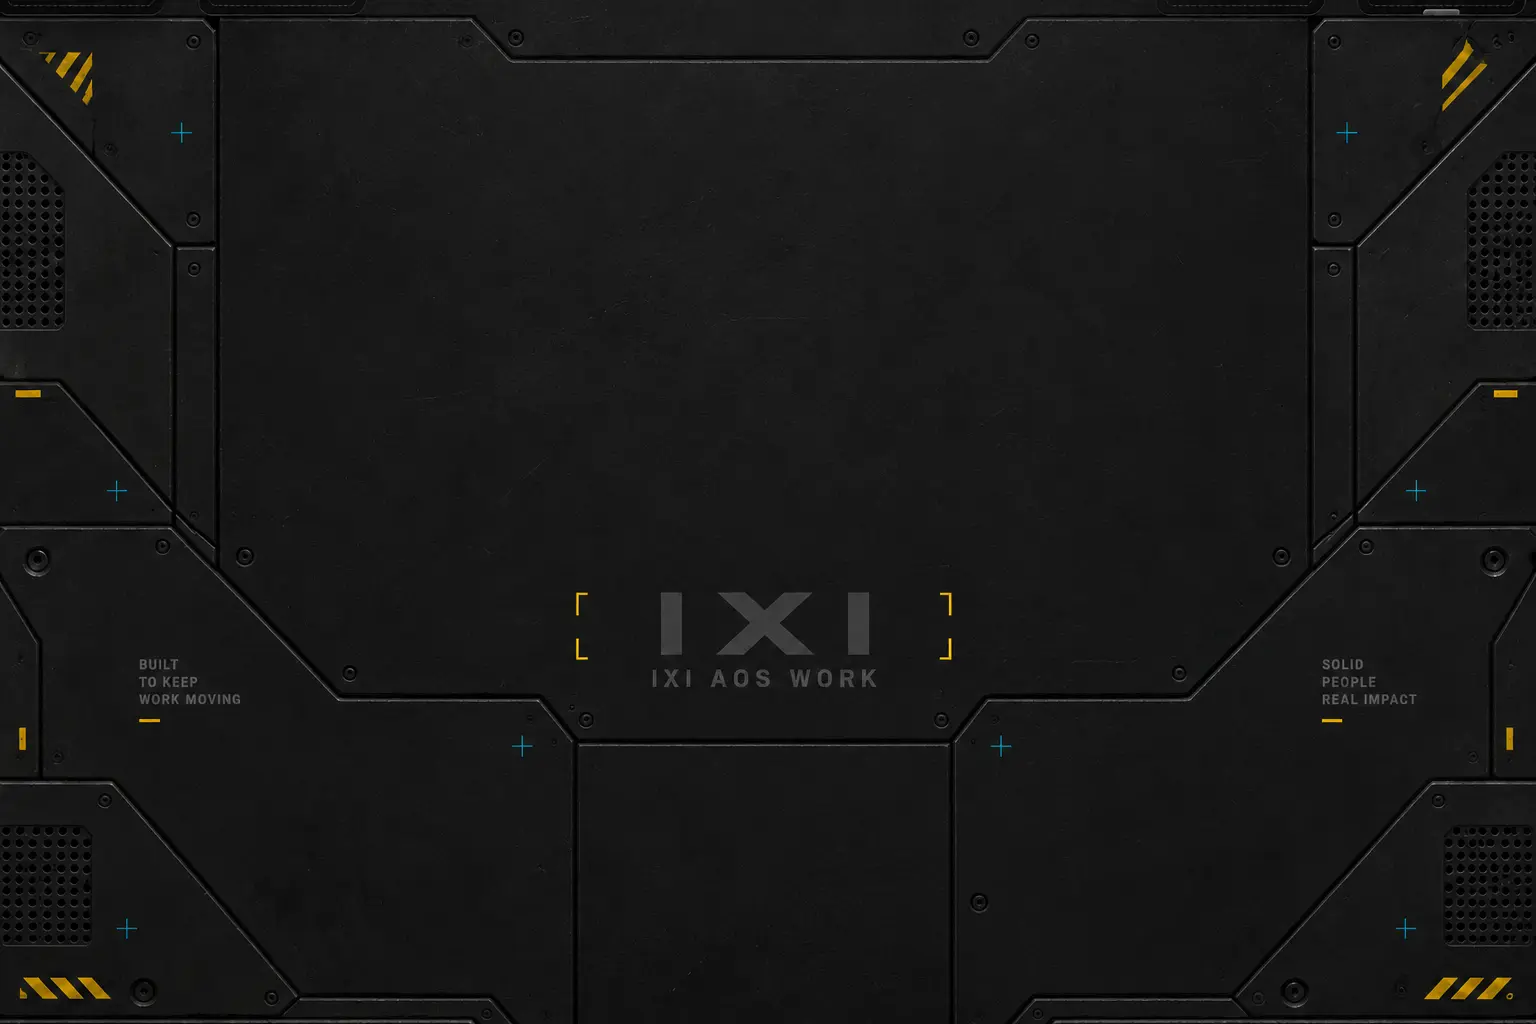
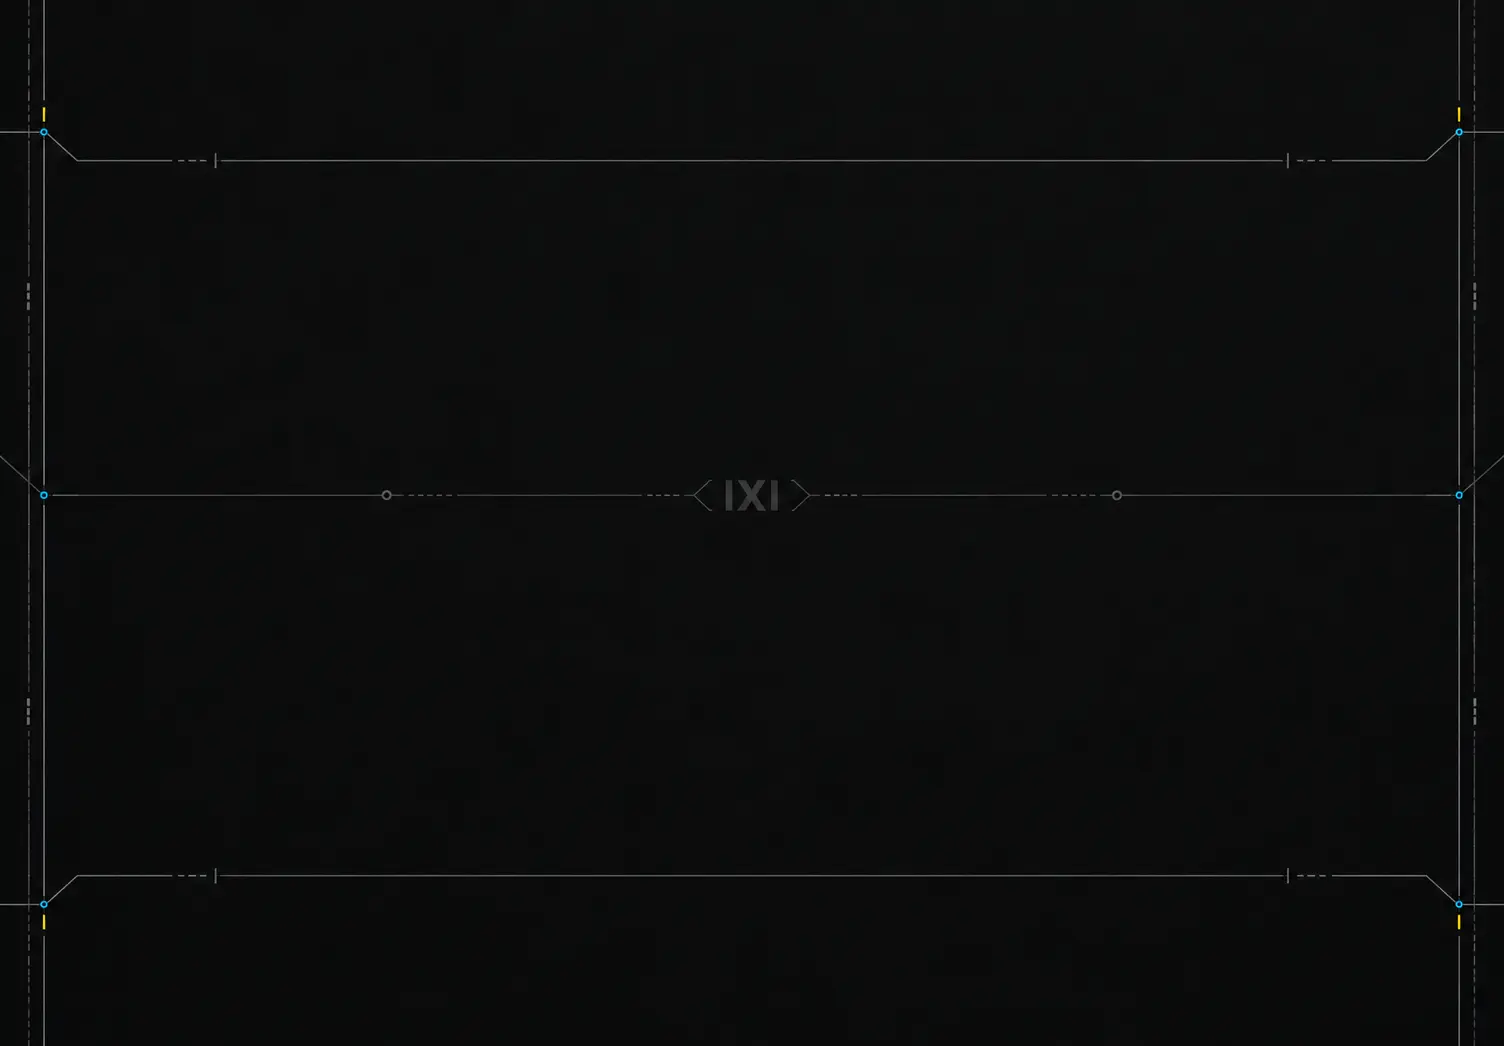
Refine AOS Work with technical line board

diff --git a/pages/aos/work.js b/pages/aos/work.js
@@ -3561,24 +3561,8 @@ onReturnContainerChildren={
           background-color: #090a0a;
           background-image: url('/images/ixi-aos-work-board.webp');
           background-position: center top;
-          background-repeat: no-repeat;
+          background-repeat: repeat-y;
           background-size: 100% auto;
-        }
-
-        .aos-work-board::after {
-          content: "";
-          position: absolute;
-          inset: 0;
-          z-index: -1;
-          pointer-events: none;
-          background:
-            linear-gradient(
-              180deg,
-              transparent 0,
-              transparent min(78vw, 1180px),
-              rgba(9,10,10,.72) min(94vw, 1440px),
-              #090a0a min(112vw, 1720px)
-            );
         }
 
         .aos-work-board-title {
